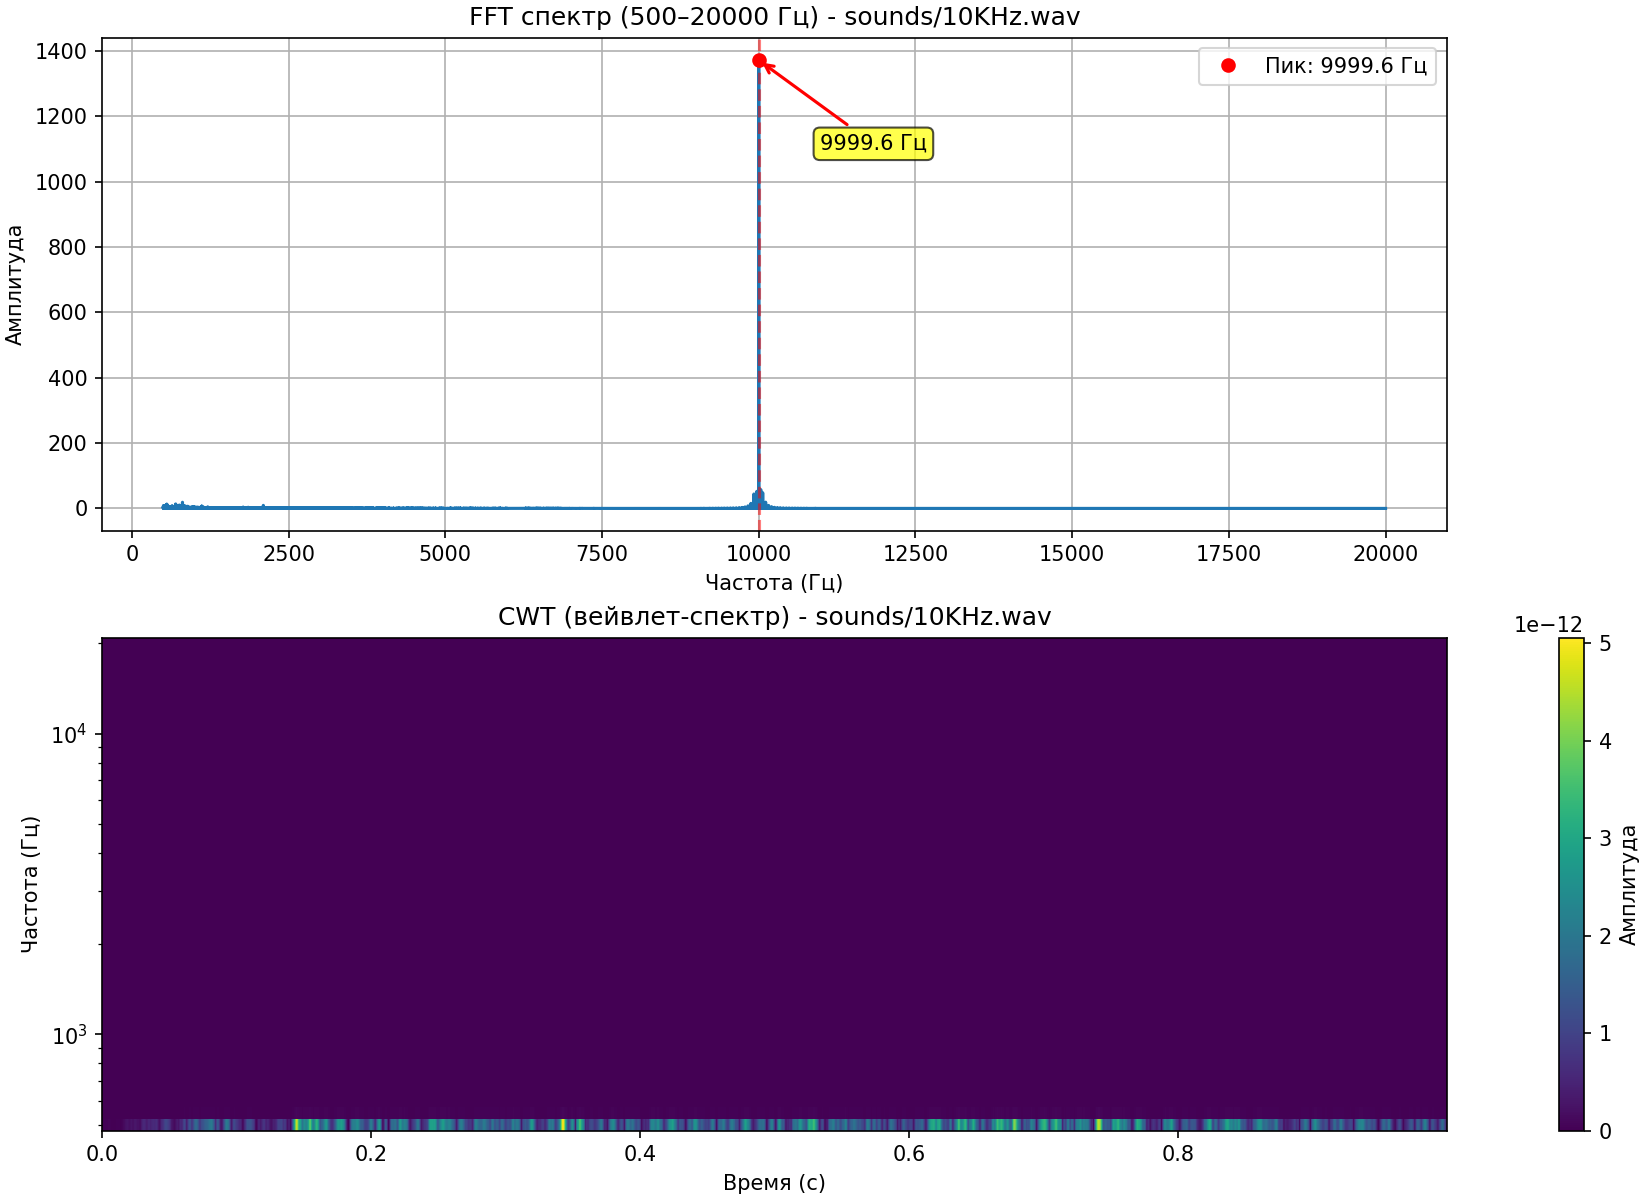
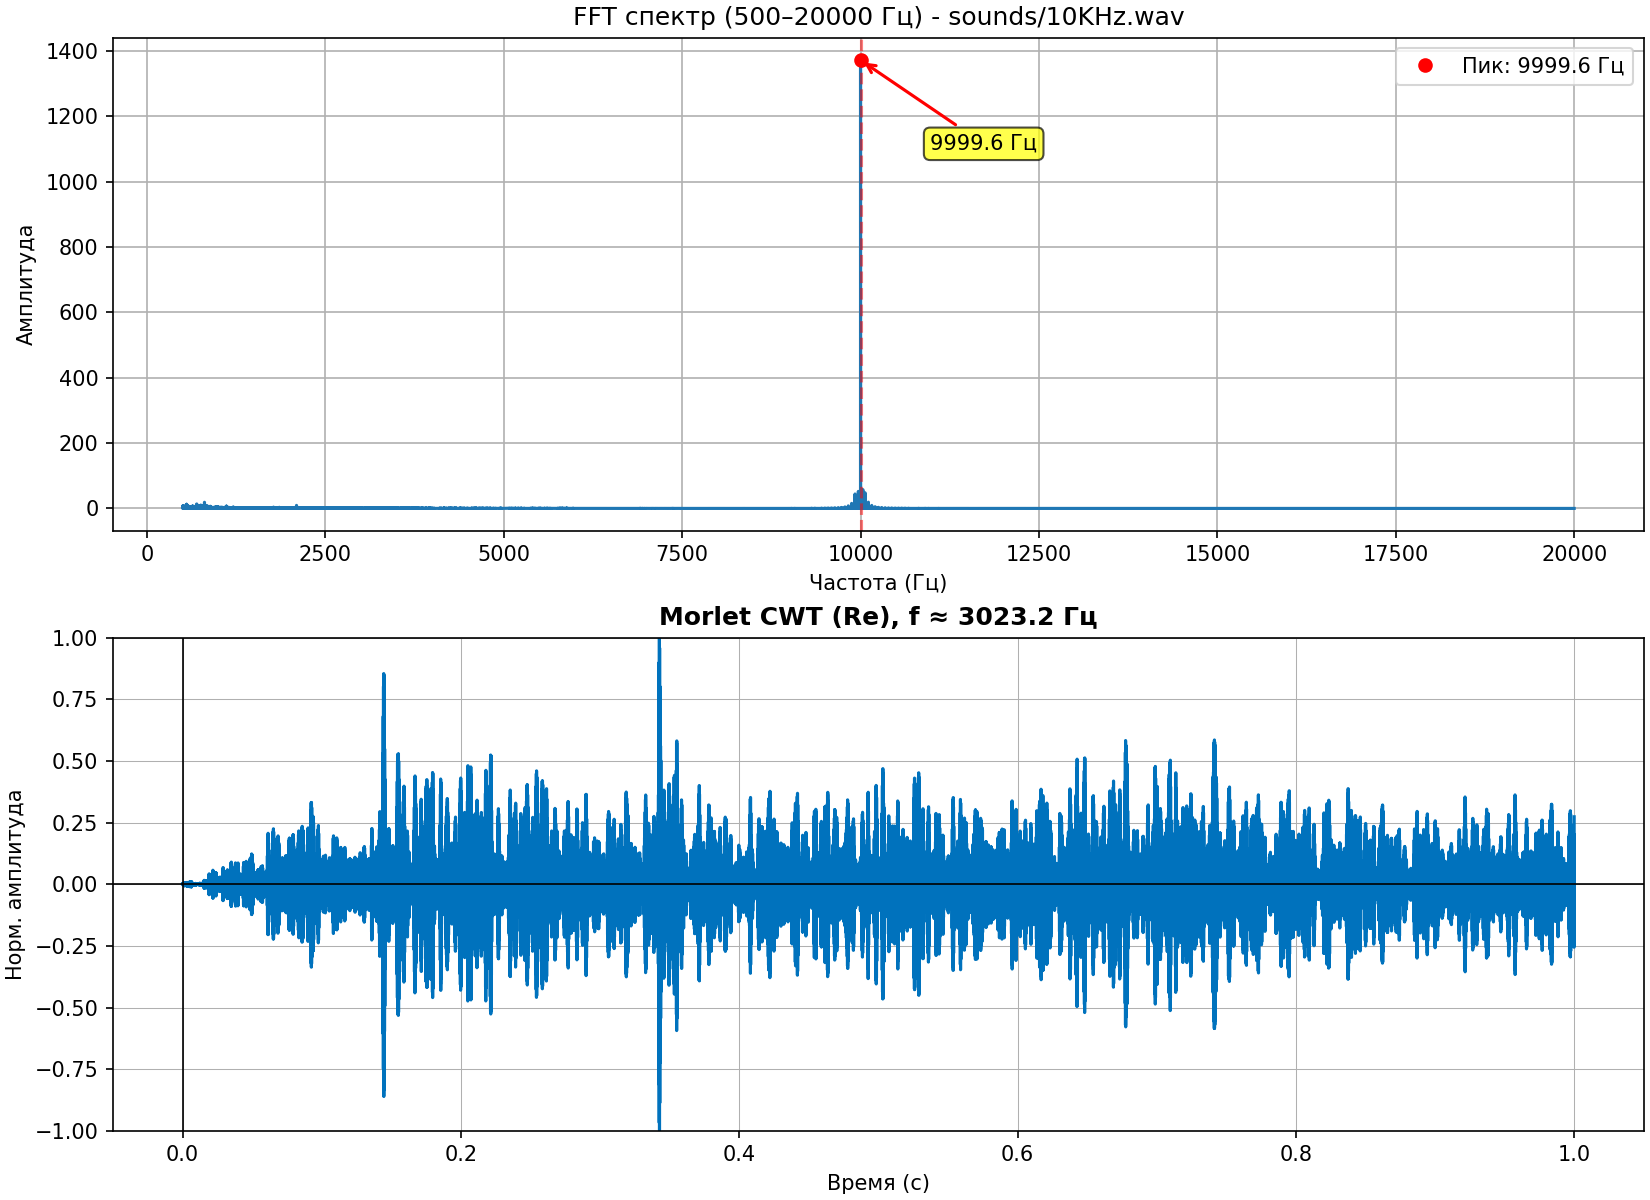
morlet

diff --git a/plot_wavelet_spectrum.py b/plot_wavelet_spectrum.py
@@ -1,3 +1,5 @@
+from pathlib import Path
+
 import numpy as np
 import matplotlib.pyplot as plt
 import matplotlib
@@ -64,39 +66,72 @@ def save_cwt(
 
 
 def plot_cwt_spectrogram(
-    file_path: str,
+    file_path: str | None = None,
     *,
+    t: np.ndarray | None = None,
+    freqs_hz: np.ndarray | None = None,
+    Wx: np.ndarray | None = None,
     fmin_hz: float = 500.0,
     fmax_hz: float = 20000.0,
     nv: int = 8,
     max_seconds: float | None = 1.0,
     downsample: int = 4,
+    freq_index: int | None = None,
     ax=None,
     show: bool = True,
 ):
-    _fs, t, freqs_hz, Wx = compute_cwt(
-        file_path,
-        fmin_hz=fmin_hz,
-        fmax_hz=fmax_hz,
-        nv=nv,
-        max_seconds=max_seconds,
-        downsample=downsample,
-    )
-    amp = np.abs(Wx)
+    """
+    Действительная часть CWT с вейвлетом Морле по выбранной строке частоты —
+    для реального входного сигнала (не дельта-импульс).
+    """
+    if Wx is None:
+        if file_path is None:
+            raise ValueError("Нужен file_path или готовые t, freqs_hz, Wx из compute_cwt.")
+        _fs, t, freqs_hz, Wx = compute_cwt(
+            file_path,
+            fmin_hz=fmin_hz,
+            fmax_hz=fmax_hz,
+            nv=nv,
+            max_seconds=max_seconds,
+            downsample=downsample,
+        )
+    else:
+        if t is None or freqs_hz is None:
+            raise ValueError("Вместе с Wx передайте t и freqs_hz.")
+
+    fi = (Wx.shape[0] // 2) if freq_index is None else int(freq_index)
+    fi = max(0, min(fi, Wx.shape[0] - 1))
+
+    y_vals = np.real(Wx[fi, :])
+    denom = np.max(np.abs(y_vals))
+    if denom > 0:
+        y_vals = y_vals / denom
 
     if ax is None:
         _, ax = plt.subplots(figsize=(10, 5))
 
-    m = ax.pcolormesh(t, freqs_hz, amp, shading="auto")
-    ax.set_yscale("log")
-    ax.set_ylabel("Частота (Гц)")
+    ax.plot(t, y_vals, color="#0072BD", linewidth=1.5)
+    f_hz = float(freqs_hz[fi])
+    ax.set_title(f"Morlet CWT (Re), f ≈ {f_hz:.1f} Гц", fontweight="bold")
     ax.set_xlabel("Время (с)")
-    ax.set_title(f"CWT (вейвлет-спектр) - {file_path}")
-    plt.colorbar(m, ax=ax, label="Амплитуда")
+    ax.set_ylabel("Норм. амплитуда")
+    ax.set_ylim(-1, 1)
+    ax.grid(True, which="both", linestyle="-", linewidth=0.5)
+    ax.axhline(0, color="black", linewidth=0.8)
+    ax.axvline(0, color="black", linewidth=0.8)
 
     if show:
         backend = matplotlib.get_backend().lower()
         if "agg" not in backend:
             plt.show()
 
-    return t, freqs_hz, amp, Wx
+    return t, y_vals
+
+
+def main():
+    default_wav = Path(__file__).resolve().parent / "sounds" / "10KHz.wav"
+    plot_cwt_spectrogram(str(default_wav), show=True)
+
+
+if __name__ == "__main__":
+    main()

diff --git a/main.py b/main.py
@@ -3,7 +3,13 @@ import matplotlib.pyplot as plt
 from pathlib import Path
 
 from plot_fft_spectrum import plot_fft_spectrum
-from plot_wavelet_spectrum import plot_cwt_spectrogram, print_cwt_preview, save_cwt
+from plot_wavelet_spectrum import (
+    compute_cwt,
+    main as run_plot_wavelet_spectrum,
+    plot_cwt_spectrogram,
+    print_cwt_preview,
+    save_cwt,
+)
 
 if __name__ == "__main__":
     project_dir = Path(__file__).resolve().parent
@@ -16,9 +22,8 @@ if __name__ == "__main__":
             fig, (ax_fft, ax_cwt) = plt.subplots(2, 1, figsize=(11, 8), constrained_layout=True)
 
             freqs, fft_data = plot_fft_spectrum(file, ax=ax_fft, show=False)
-            t, wfreqs, amp, Wx = plot_cwt_spectrogram(
-                file, max_seconds=1.0, nv=8, downsample=4, ax=ax_cwt, show=False
-            )
+            _fs, t, wfreqs, Wx = compute_cwt(file, max_seconds=1.0, nv=8, downsample=4)
+            plot_cwt_spectrogram(t=t, freqs_hz=wfreqs, Wx=Wx, ax=ax_cwt, show=False)
 
             print_cwt_preview(t, wfreqs, Wx)
             save_cwt(t, wfreqs, Wx, prefix="sounds_10KHz")
@@ -34,3 +39,5 @@ if __name__ == "__main__":
             print(f"Файл {file} не найден!")
         except Exception as e:
             print(f"Ошибка при обработке файла {file}: {e}")
+
+    run_plot_wavelet_spectrum()
